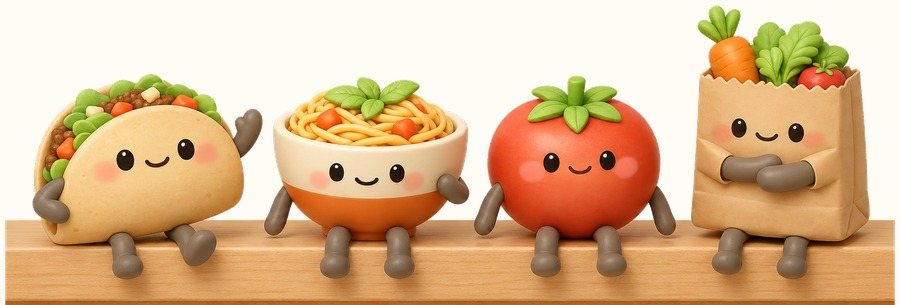
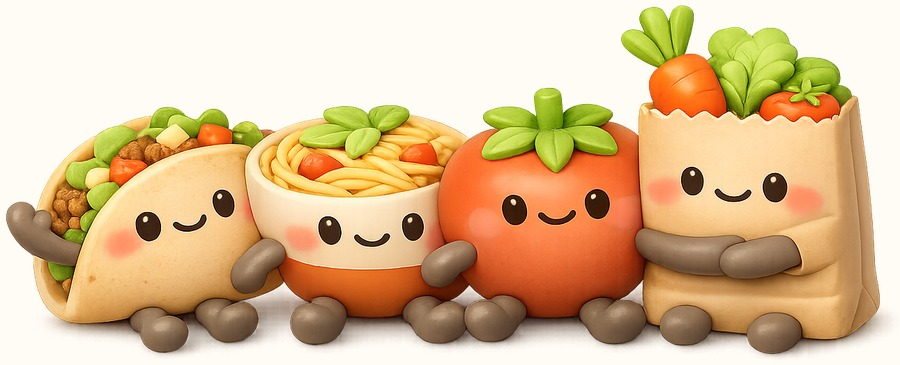
Use the standing cast in the OG card
Swaps the bench art for the four standing together, tight-trimmed like the
rest. Image dimensions track the new 2.47:1 ratio — satori does not infer
intrinsic size, so a stale width/height silently stretches the art.

diff --git a/src/app/opengraph-image.tsx b/src/app/opengraph-image.tsx
@@ -132,13 +132,15 @@ export default async function OGImage() {
           </div>
         </div>
 
-        {/* The cast, sitting along the bottom */}
+        {/* The cast along the bottom. Dimensions track the art's 2.47:1 ratio —
+            satori does not infer intrinsic size, so a mismatch silently
+            stretches it. */}
         <img
           src={castSrc}
           alt=""
-          width={700}
-          height={238}
-          style={{ display: "flex", marginLeft: 250, marginBottom: 34 }}
+          width={660}
+          height={267}
+          style={{ display: "flex", marginLeft: 270, marginBottom: 26 }}
         />
 
         {/* Bottom bar */}
